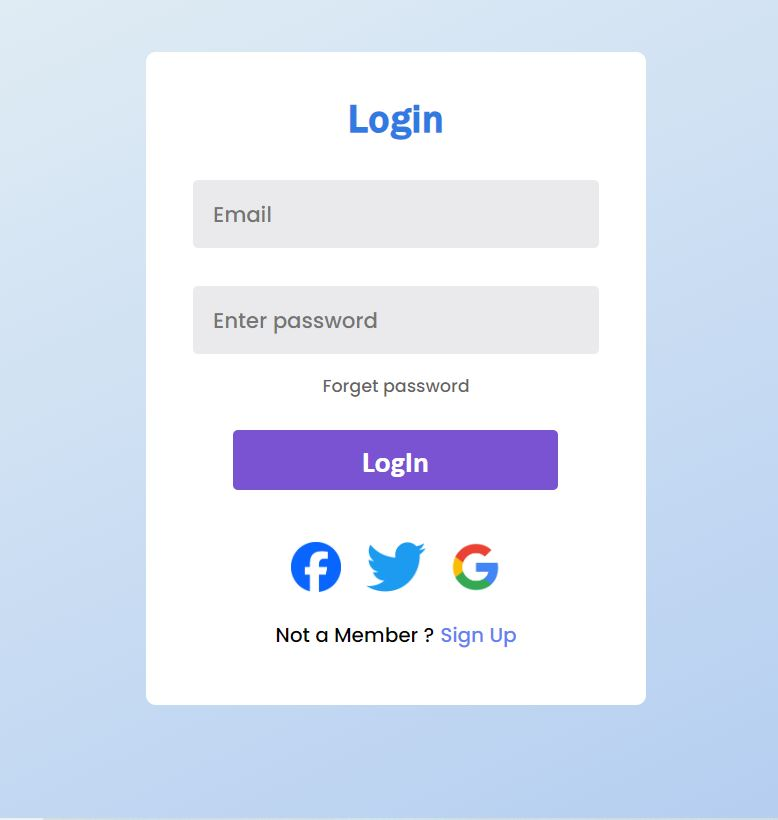
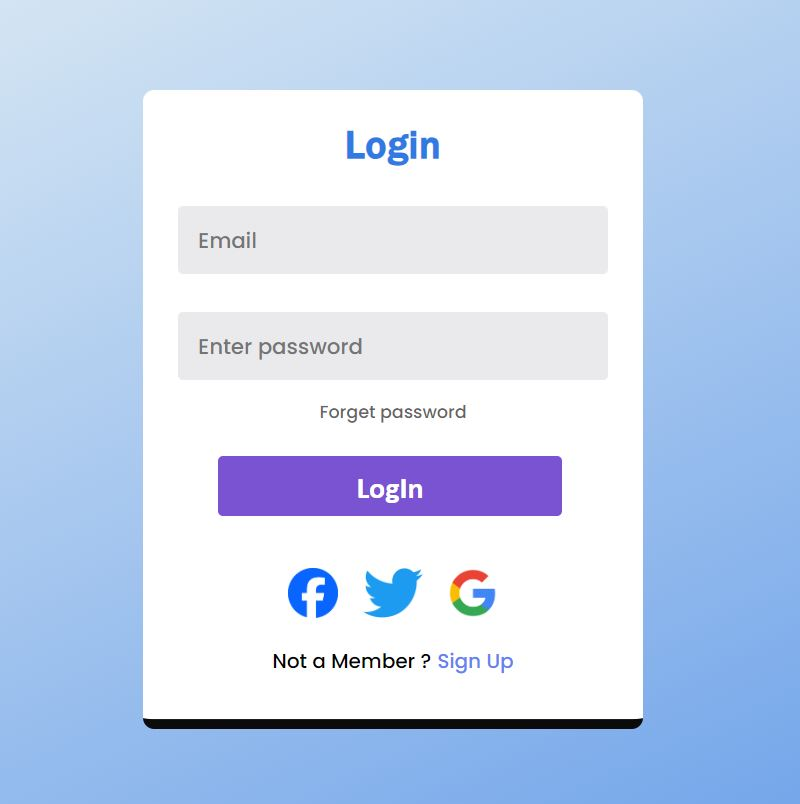
modify UI of and made working logIn page

diff --git a/logIn SignUp From/logIn.css b/logIn SignUp From/logIn.css
@@ -12,22 +12,26 @@
 .container{
   width: 100%;
   height: 100vh;
+  /* background:linear-gradient(to right bottom, 
+  #ebf4f5,#91b8ee); */
   background:linear-gradient(to right bottom, 
-  #ebf4f5,#acc8f0);
+  #ebf4f5,#5d97e8);
   display: flex;
   justify-content: center;
   align-items: center;
+  
 }
 
 .form-box{
   width: 50%;
+  
   max-width: 400px;
   background-color: #ffffff;
   padding: 25px 28px;
-  border-radius: 8px;
+  border-radius: 9px;
   margin-inline: 20px;
-  border: 10px solid white;
-  
+border-bottom: 8px solid rgb(11, 11, 11);
+
 }
 
 header h1{
